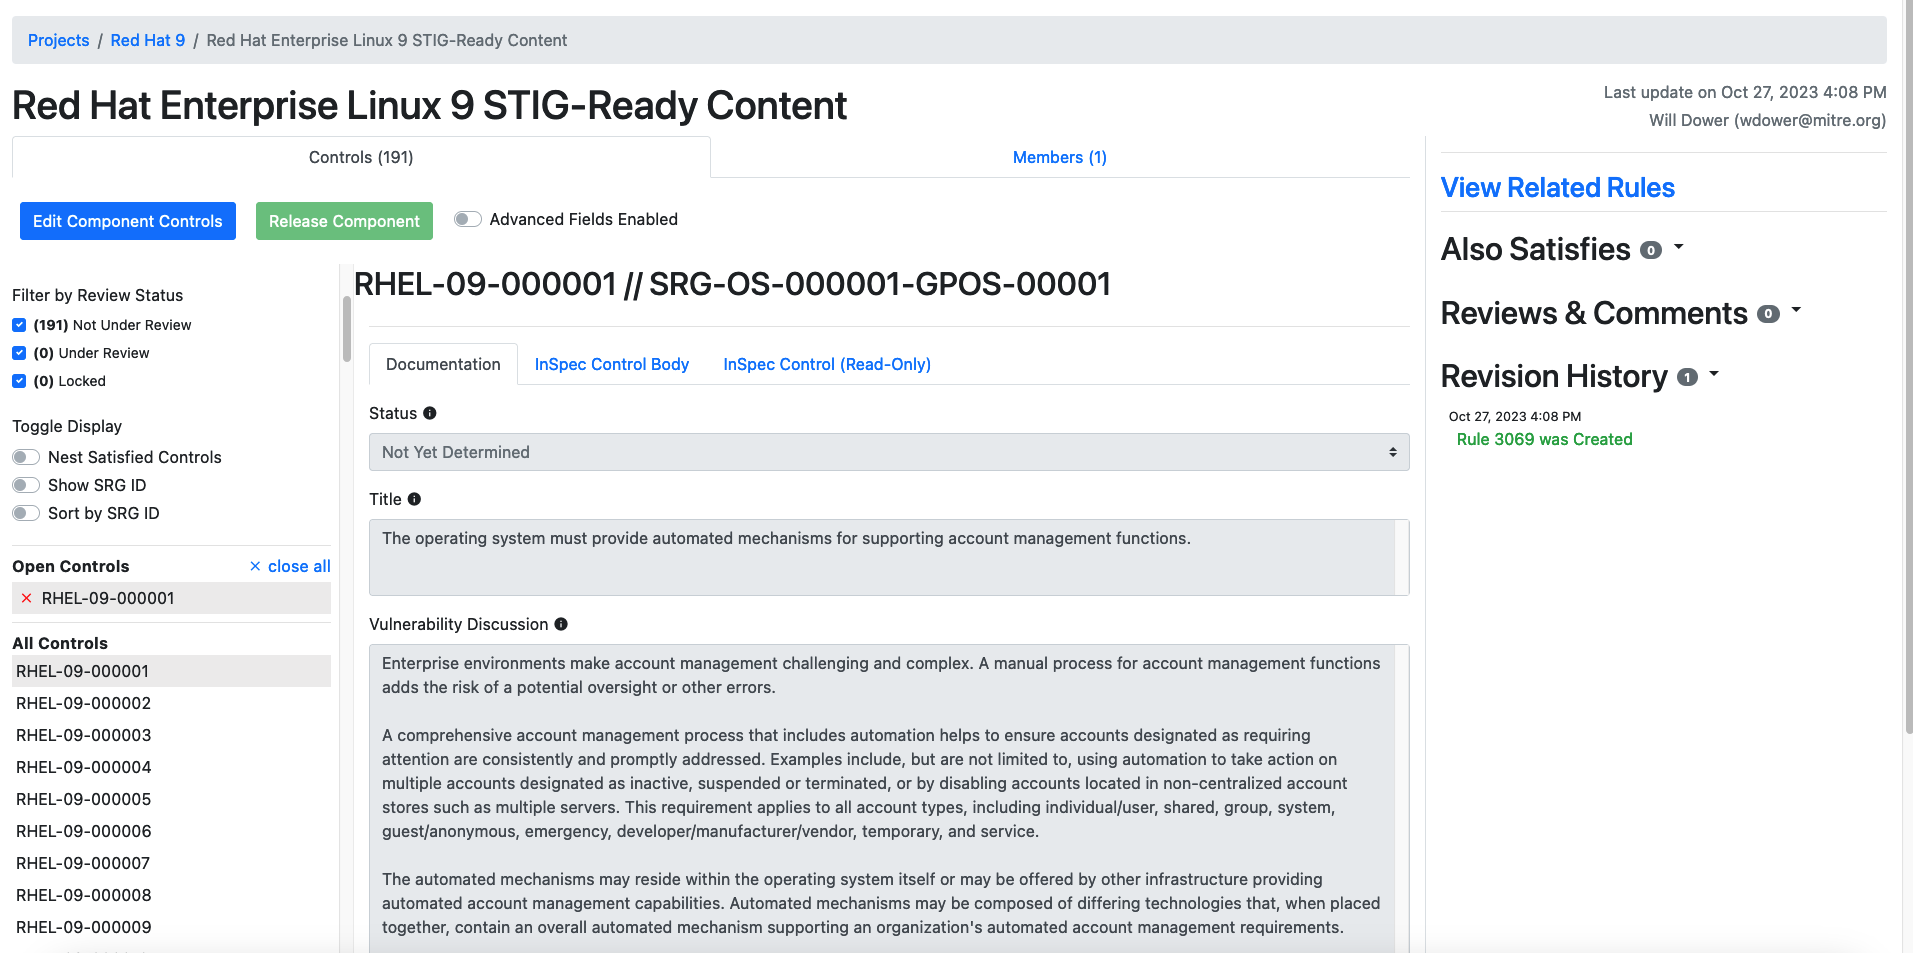
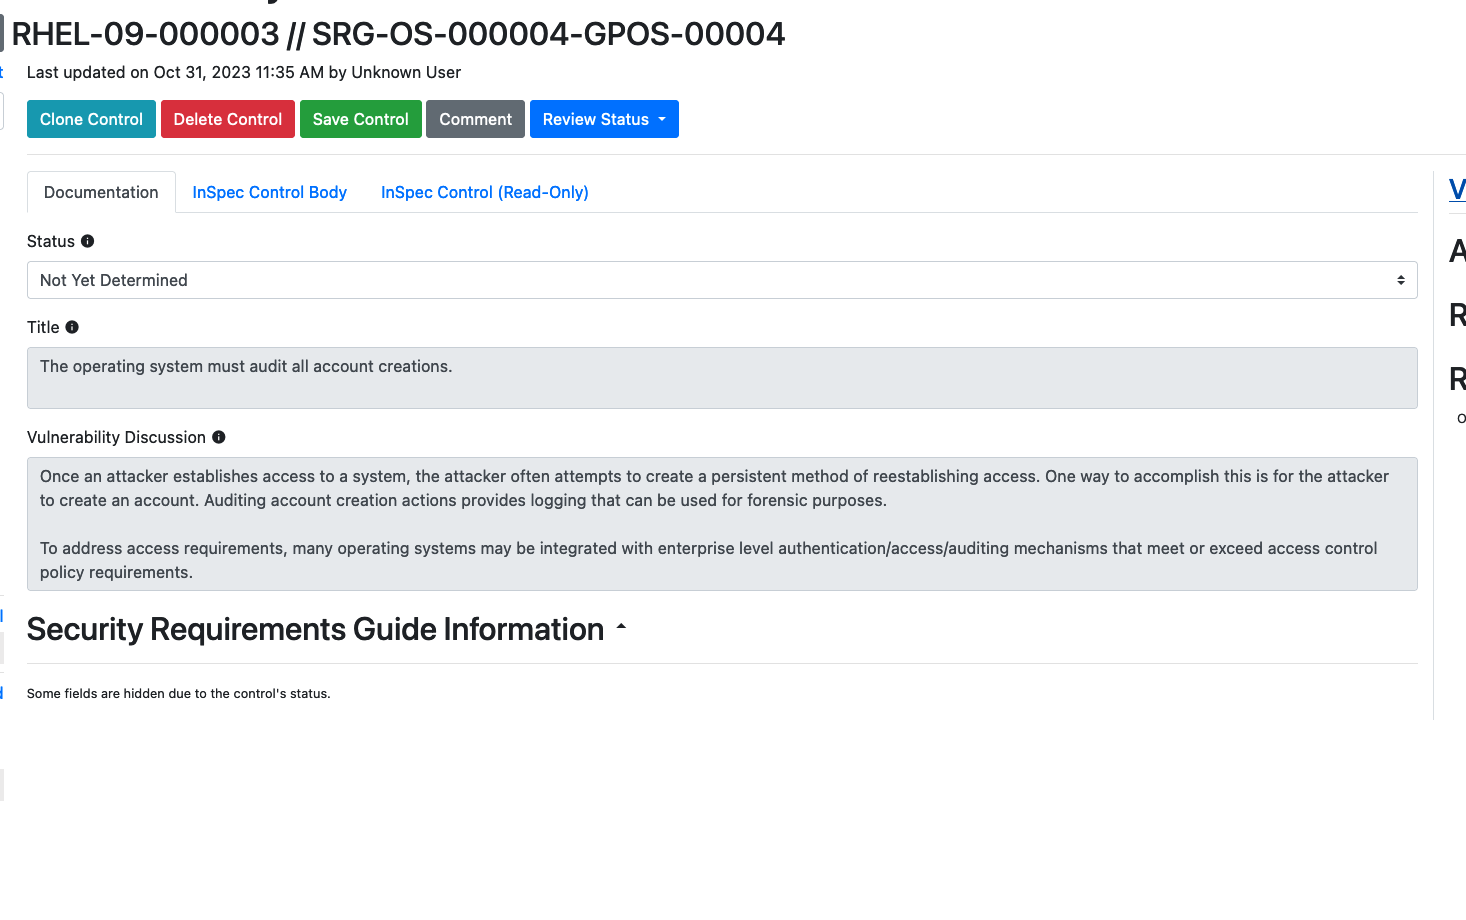
more status info -- status justification, mitigation, artifacts

diff --git a/courses/guidance/07.md b/courses/guidance/07.md
@@ -21,7 +21,7 @@ You may note that Vulcan refers to the STIG requirements as "controls." A **secu
 STIGs are technically comprised of a set of *requirements,* but each requirement's main focus is describing a control to meet that requirement (i.e. the Check and Fix content).
 :::
 
-2. Now let's select a requirement. Let's start with RHEL-09-000001.
+2. Now let's select a requirement. Let's start with RHEL-09-000003. (Normally, we'd start with number 1, but for this exercise we'll pick a simple requirement.)
 
 ![Selecting a Requirement](@/../../../assets/img/selecting_controls.png)
 
@@ -30,12 +30,12 @@ You'll see a view of the requirement's text fields, like the vulnerability discu
 ![An Unedited Requirement](@/../../../assets/img/selected_control.png)
 
 Note how all of these text fields are:
-- Pre-populated with the underlying SRG data for the general requirement (in this case SRG-OS-000001-GPOS-00001)
+- Pre-populated with the underlying SRG data for the general requirement (in this case SRG-OS-000004-GPOS-00004)
 - Grayed-out and uneditable at present.
 
 We can't edit these text fields yet because we haven't yet told Vulcan if this requirement is even applicable to our Component. Let's fix that.
 
-#### Requirement Statuses
+## 7.3 Requirement Statuses
 
 The process of tailoring SRG requirements into specific STIG controls first requires you to determine which of the following statuses applies to each requirement[^Statuses]:
 
@@ -47,25 +47,125 @@ The process of tailoring SRG requirements into specific STIG controls first requ
 
 - **Not Applicable**: The requirement addresses a capability or use case that the product does not support.
 
-If you select any status other than "Applicable - Configurable" for a requirement, you'll need to fill out a few fields explaining why you did so.
+If you select any status other than "Applicable - Configurable" for a requirement, you'll need to fill out a few fields explaining why you did so. We'll take a look at a requirement like that in a moment.
 
-3. Let's pick a status for RHEL-09-000001. We will do this by reading the SRG requirement and determining if it applies to this particular component, and if so, if it is an innate feature of the system or not.
+### 7.3.1 Our First Control Status
+3. Let's pick a status for RHEL-09-000003. We will do this by reading the SRG requirement and determining if it applies to this particular component, and if so, if it is an innate feature of the system or not.
 
-::: details Based on the title "The operating system must provide automated mechanisms for supporting account management functions," do you think this requirement applies to RHEL9 or not?
-This requirement does, in fact, apply. RHEL9, like any other *nix operating system, has an account system and users. Therefore, it requires account management features.
+The requirement's title is *"The operating system must audit all account creations."*
+
+::: details Based on the title, do you think this requirement applies to RHEL9 or not? If it applies, does RHEL9 need to be configured/can it be configured to do it?
+This requirement does apply. RHEL9, like any other operating system, must have a functioning auditing system; no inherent aspect of RHEL would change this.
+
+RHEL9, like all operating systems, has a built in auditing capability. The auditing capability is configurable (i.e. it is possible to have the system configured to *either* meet or not meet this requirement).
+:::
+::: tip How do we know all this about the system?
+If you are not familiar with the RHEL9 auditing system, don't worry; it's just an example we're using for the class. We promise we will not quiz you on how the `auditd` service works.
+
+If you have to develop STIG content for a project, it will concern a Component that you are familiar with enough to answer these questions (or are at least in a position to research).
 :::
 ::: details Based on your decision, what status should we give this component?
-We would consider this 
+We would consider this requirement **Applicable - Configurable.** The system is capable of complying with the SRG requirement, but only if properly configured.
 :::
 
 4. Based on our decision, let's edit the status field in the Component editing screen.
 ::: details Changing status
-![Updating the Status on RHEL-09-000001](@/../../../assets/img/assigning_status.png)
-Note that 
+![Updating the Status on RHEL-09-000003](@/../../../assets/img/assigning_status.png)
+
+Hint: Most SRG requirements wind up being applicable to Components. A handful may be either Not Applicable, Inherently Met or Inherently Not Met. We still have to check.
 :::
 
+Note that once we select the status, the text fields become editable. Now we can tailor the general guidance from the SRG into specific guidance.
+
+Before we do that, let's investigate a the Status field a bit more.
+
+### 7.3.2 Another Control Status
+
+5. Let's skip ahead and pick an example with a different status. On the sidebar, click on RHEL-09-000045.
+
+![RHEL-09-000045](@/../../../assets/img/inherently_met_control.png)
+
+Our title here is "The operating system must obscure feedback of authentication information during the authentication process to protect the information from possible exploitation/use by unauthorized individuals."
+
+::: details Based on the title, do you think this requirement applies to RHEL9 or not? If it applies, does RHEL9 need to be configured/can it be configured to do it?
+Yes, this requirement still applies. Like most requirements, RHEL9 doesn't have any quirks that would make this requirement not apply.
+
+However, you may know that RHEL (and all Linux OSes) obscure user passwords when they are entered either into the GUI or on the terminal. This behavior is baked into the RHEL source code -- there is no way for a user to configure the system to not do this.
+
+As such, the status should be **Applicable - Inherently Meets.**
+:::
+
+Let's once again update the status of our requirement to match what we picked.
+
+::: details Updating Status
+![RHEL-09-000045](@/../../../assets/img/inherently_met_control_picking_status.png)
+:::
+
+Notice that this time, several of the fields in the Vulcan editing window changed.
+
+## 7.4 Mitigations, Artifacts and Justifications
+
+If a requirement is flagged as any of Not Applicable, Inherently Met, or Inherently Not Met, then we need to offer proof that this is the case, and give the end users guidance on how to mitigate the vulnerability if the requirement cannot be met.
+
+If we select any of those statuses in Vulcan, we therefore get a different set of fields to complete. We can't describe them better than DISA can, so we will refer you to the Vendor STIG guide for the definitions of the new fields.
+
+### 7.4.1 Mitigation
+
+Per Per the Vendor STIG Process Guide section 4.1.15 -
+
+"The Mitigation offers a method for minimizing risk. Mitigations do not eliminate the need for the requirement. 
+
+The “Mitigation” field must be populated if the status of the requirement is Applicable – Does Not Meet.
+
+After the mitigation, include a summary statement to address any impact to the overall risk associated with this requirement. 
+
+Example summary statements:
+- With the implementation of this mitigation, the overall risk can be decreased to a CAT [II or III].
+- With the implementation of this mitigation, the overall risk is fully mitigated.
+- Although the listed mitigation is supporting the security function, it is not sufficient to reduce the residual risk of this requirement.
+
+An “Applicable – Does Not Meet” vulnerability may be fully mitigated by the application of another STIG check or by the underlying operating system. In these instances, include a statement in the Mitigation as shown in the example below. 
+
+Examples of risk mitigated by other STIG requirements:
+- This requirement is fully mitigated by the Apache Server 2.4 Windows Server STIG. The Apache Web Server accounts not used by installed features (e.g., tools, utilities, specific services) must not be created and must be deleted when the Apache web server feature is uninstalled. (AS24-W1-000280)
+- This requirement is fully mitigated by the underlying operating system. (WN16-SO-000430)"
+
+### 7.4.2 Artifacts
+
+Per the Vendor STIG Process Guide section 4.1.16 -
+
+"Populate this information for requirements that have a status of Applicable – Inherently Meets. The Artifact Description describes the artifacts or substantiating information that shows how the product inherently meets the requirement. 
+
+All self-certification claims must be accompanied by supporting vendor documentation, which taken as a whole, provides DISA with reasonable assurance that the particular requirement has been met.
+
+This field provides citations to the documentary evidence that describe how each requirement is satisfied. Examples of artifacts include:
+- A test report describing the test procedures used to verify compliance and corresponding results, including the specific version of tools used to test and date of test.
+- A published administrative manual or configuration guide explaining how compliance can be achieved.
+- An attestation from the product developer that the product is compliant, accompanied by a brief statement describing the technical means by which compliance is achieved.
+- Steps to verify the product cannot be configured to be out of compliance with the requirement.
+
+Note: Blogs and email messages are not sufficient documentation to support an Applicable – Inherently Meets status."
+
+### 7.4.3 Status Justification
+
+Per the Vendor STIG Process Guide section 4.1.17 -
+
+"For requirements that have a status of Not Applicable: 
+- Explain in the Status Justification text why the requirement is not applicable. 
+- The most common explanations are that the requirements concern a capability that is not present on the device (e.g., encryption of removable data storage media where the product does not support removable media) or the requirement pertains to an operational environment in which the product will not be placed (e.g., the requirement applies to classified processing when the product is intended only for unclassified applications).
+
+For requirements that have a status of Applicable – Does Not Meet:
+- Explain in the Status Justification text what function or feature is not present. 
+- If some part of the requirement is achievable, the Status Justifications should explain what part of the requirement is unmet and what is met (e.g., the system can lock an account after certain failed logon attempts, but these failures are not limited to a specific window of time). 
+- If no part of the requirement can be fulfilled, note this information. 
+- Describe the residual risk after any mitigation is applied.
+
+For requirements that have a status of Applicable – Inherently Meets
+- List in the Status Justification text the specific feature of the product that supports this requirement and that cannot be changed. 
+- Note the type of evidence used to establish compliance (e.g., test report, vendor documentation, or vendor attestation)."
 
 ### STIG Format
 TODO: describe how to write a professional STIG, ergo being extremely clear about what counts as a finding, caveats for different deployment strategies, applicabilities, etc.
 
 [^Statuses]: Definitions from Table 4-1 in DISA's Vendor STIG Process Guide. See [Resources](TODO figure out how these dang local links work).
+[^VendorSTIGProcessGuide]: Section 4.1.17 of the "Vendor STIG Process", Version 4 Release 1. See Resources.
